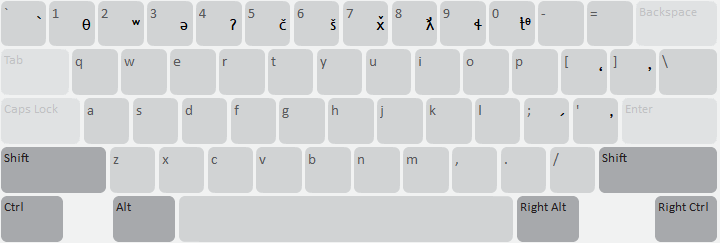
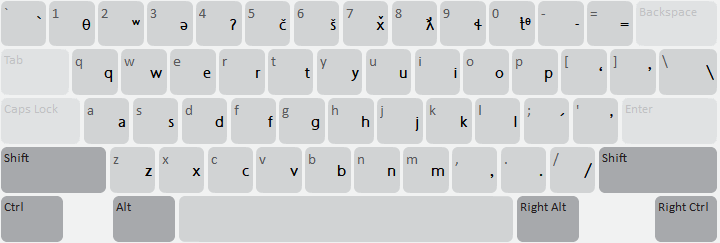
fv_henqeminem - updated keymap images
updated keymap images, minor adjustments in mobile layout spacing

diff --git a/release/fv/fv_henqeminem/LICENSE.md b/release/fv/fv_henqeminem/LICENSE.md
@@ -1,6 +1,6 @@
 The MIT License (MIT)
 
-Copyright (c) 2008-2023 FirstVoices, SIL International. Portions (c) 2006 Chris Harvey
+Copyright (c) 2008-2024 FirstVoices, SIL International. Portions (c) 2006 Chris Harvey
 
 Permission is hereby granted, free of charge, to any person obtaining a copy
 of this software and associated documentation files (the "Software"), to deal

diff --git a/release/fv/fv_henqeminem/HISTORY.md b/release/fv/fv_henqeminem/HISTORY.md
@@ -1,5 +1,10 @@
 hǝn̓q̓ǝmin̓ǝm̓ Change History
 ============================
+
+10.0.1 (1 Apr 2024)
+-------------------
+* Updated keymap images
+
 10.0 (17 Oct 2023)
 -------------------
 * Added middle dot and chi on mobile layout
